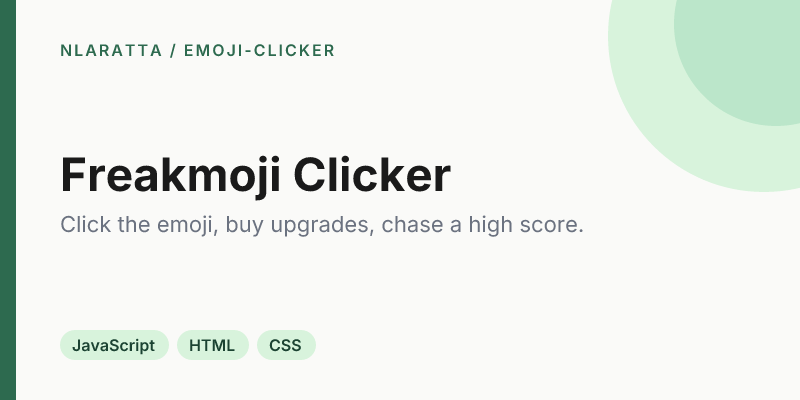
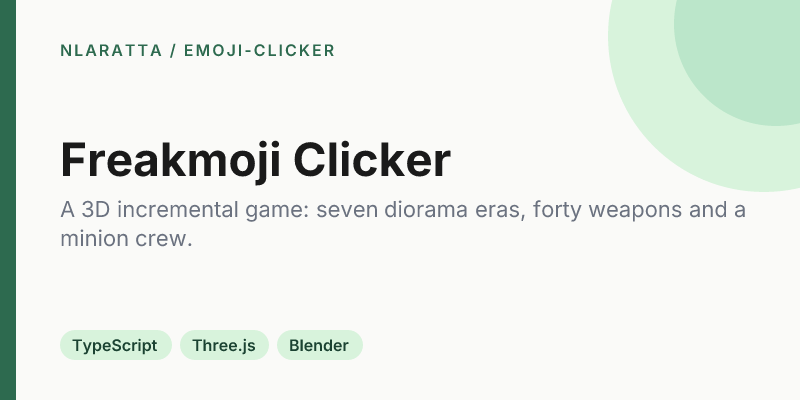
Freakmoji Clicker: new tagline and stack after the 3D overhaul

Changed region(s): [[0.0625, 0.33, 0.9375, 0.63], [0.0938, 0.81, 0.4688, 0.9]]

diff --git a/README.md b/README.md
@@ -61,7 +61,7 @@ Open source from the studio:
 |---|---|---|
 | [**Progression Compass**](https://github.com/nlaratta/ProgressionCompass) | A Terraria mod that always knows what you should do next. | C#, tModLoader, Terraria |
 | [**Game Hub**](https://github.com/nlaratta/game-hub) · [live](https://nlaratta.github.io/game-hub/) | One page to play my small browser games. | HTML, CSS, GitHub Pages |
-| [**Freakmoji Clicker**](https://github.com/nlaratta/emoji-clicker) · [live](https://nlaratta.github.io/emoji-clicker/) | Click the emoji, buy upgrades, chase a high score. | JavaScript, HTML, CSS |
+| [**Freakmoji Clicker**](https://github.com/nlaratta/emoji-clicker) · [live](https://nlaratta.github.io/emoji-clicker/) | A 3D incremental game: seven diorama eras, forty weapons and a minion crew. | TypeScript, Three.js, Blender |
 | [**Wordle Solver**](https://github.com/nlaratta/wordle-solver) | Solves a Wordle puzzle by filtering on green, yellow and gray feedback. | Java, CLI |
 
 **Web, data & trading**
